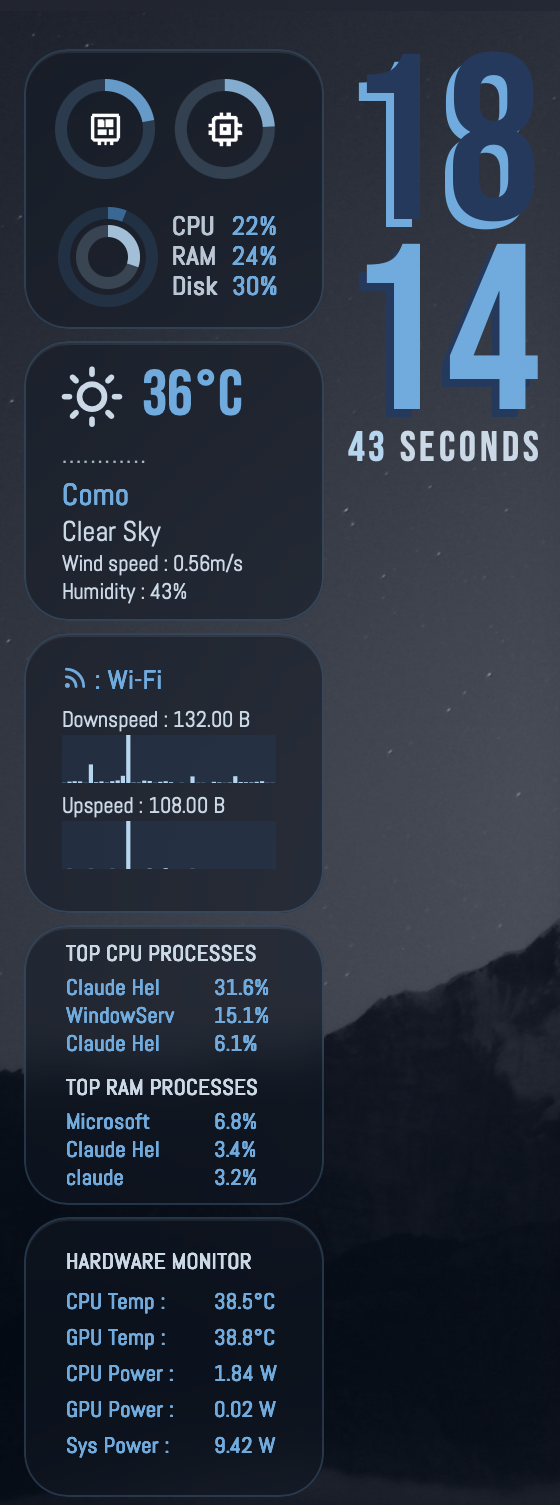
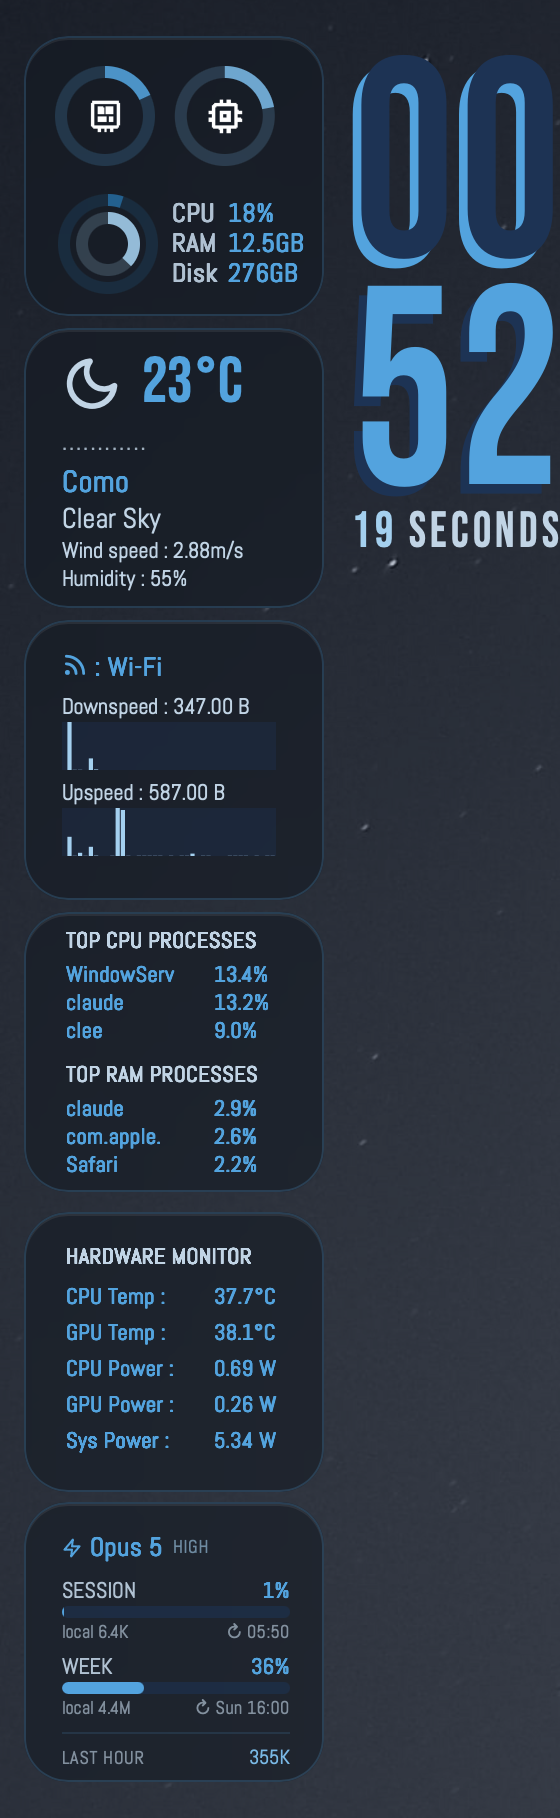
Update preview screenshot with Claude Code widget
Recapture the widget column now that the Claude Code widget is part of
the set (560x1818, was 560x1505). Also fix the README description of the
disk widget legend, which shows free RAM/disk since 23f97fa, and bump the
preview cache-busting query.

diff --git a/README.md b/README.md
@@ -5,14 +5,14 @@ A blue, monospaced-glass widget set for macOS — a faithful port of the **Regul
 Made for a MacBook Air M‑series, tuned on a notch display.
 
 ## Preview
-![Preview](preview.png?v=1)
+![Preview](preview.png?v=2)
 
 ## Features
 - **Frosted glass** — translucent tinted panels with `backdrop-filter` blur, thin blue border and inner highlight. The blur picks up your wallpaper.
 - **Draggable & lockable** — click‑drag any widget to reposition; each has a small monochrome lock icon (shown on hover) to freeze it. Positions and lock state persist across reboots and refreshes (via `localStorage`).
 - **Real sensors on Apple Silicon** — CPU/GPU die temperature and power draw via [`macmon`](https://github.com/vladkens/macmon) (no `sudo`).
 - **Two‑layer clock** — large Bebas Neue digits with the original Cosmoduck colour‑inversion between hours and minutes.
-- **Ring gauges** — CPU, RAM and disk usage as arcs around chip/CPU glyphs, with a CPU/RAM/Disk legend.
+- **Ring gauges** — CPU, RAM and disk usage as arcs around chip/CPU glyphs, with a legend showing CPU load plus free RAM and free disk space.
 
 ## Installation
 1. **[Download `cosmoduck-widgets.zip`](https://github.com/msavox/cosmoduck-widgets/raw/main/cosmoduck-widgets.zip)**
@@ -33,7 +33,7 @@ Made for a MacBook Air M‑series, tuned on a notch display.
 | Widget | Shows |
 |---|---|
 | **Clock** | `HH` over `MM` (two‑layer, colour‑inverted) + seconds |
-| **Disk / System** | Ring gauges for CPU, RAM, disk + CPU/RAM/Disk % legend |
+| **Disk / System** | Ring gauges for CPU, RAM, disk + legend with CPU %, free RAM and free disk |
 | **Weather** | OpenWeatherMap current conditions with a Feather glyph icon |
 | **Network** | Wi‑Fi name + down/up speed with bar sparklines |
 | **Processes** | Top 3 CPU and top 3 RAM processes |
